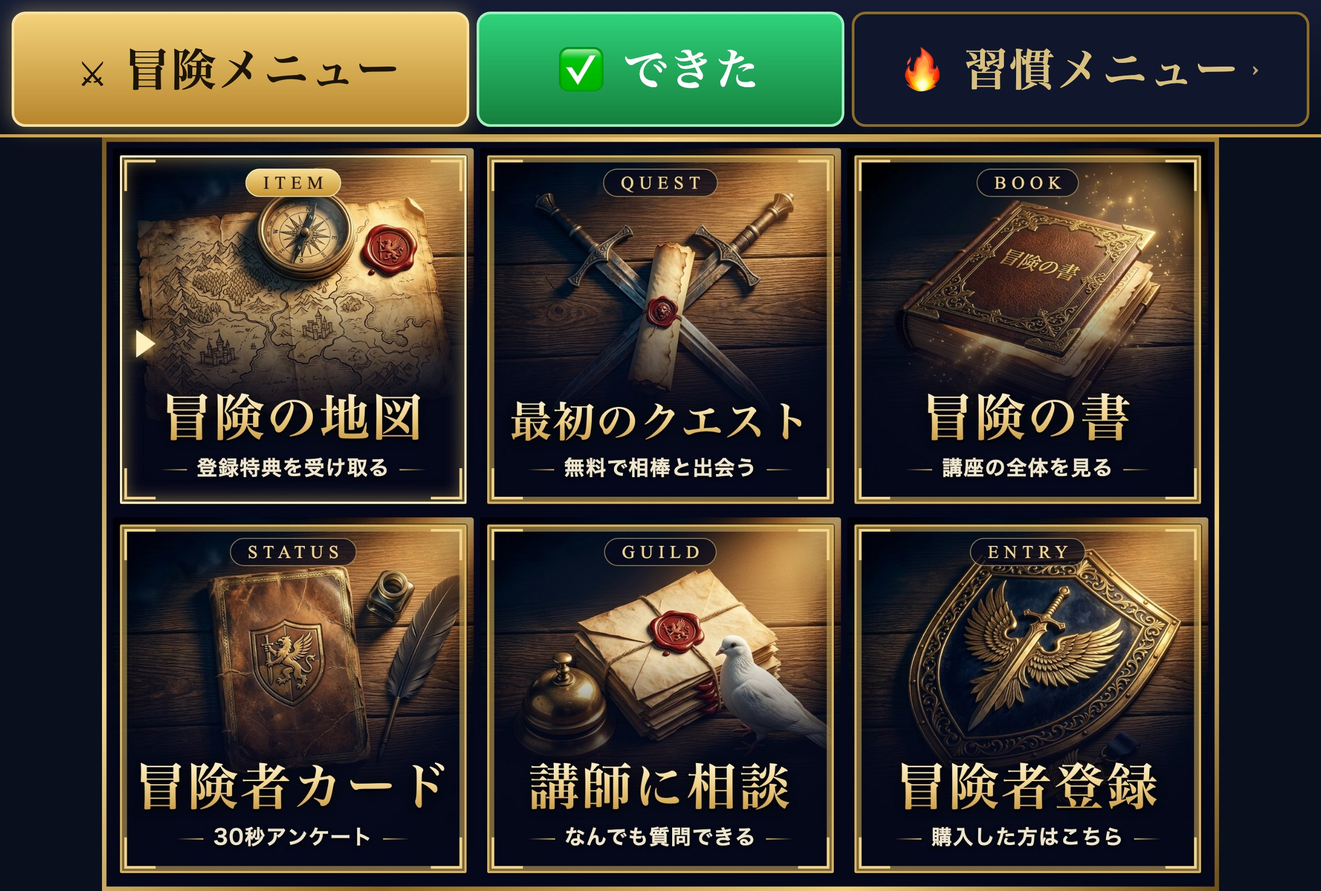
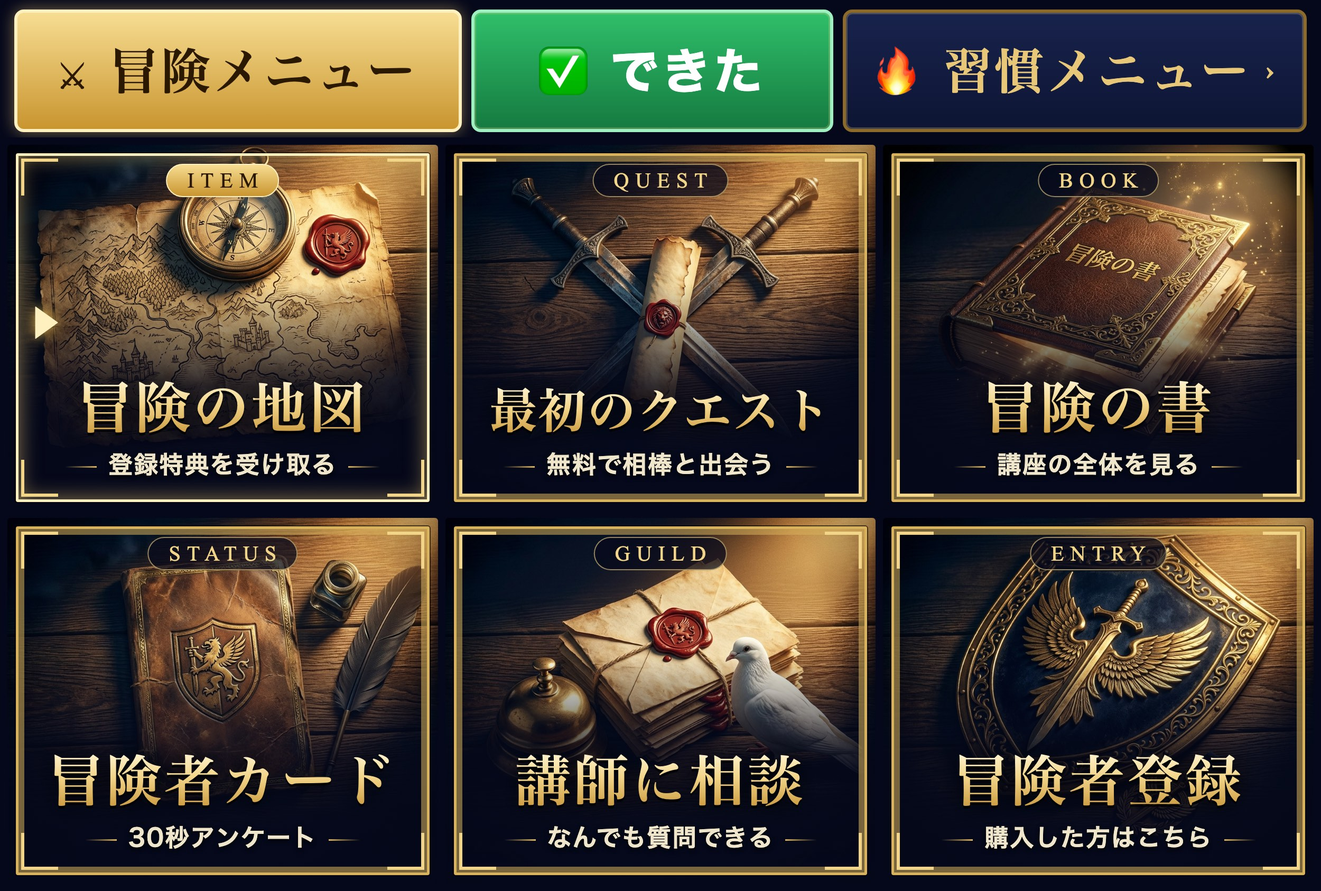
fix: タブ式の冒険メニューを画面いっぱいの6分割にし、押せる範囲も絵に合わせる
縮小して中央に置いていたため両脇に黒い余白が出ていた。
画像の元HTML（richmenu-tab-course.html）と、イラスト生成スクリプト（fal_gen.py）も追加。

diff --git a/lstep-clone/funnels/claude-code-course/assets/richmenu-tab-course.html b/lstep-clone/funnels/claude-code-course/assets/richmenu-tab-course.html
@@ -1,0 +1,36 @@
+<!doctype html><html><head><meta charset="utf-8"><link rel="stylesheet" href="rpg-menu.css">
+<style>
+/* タブ式の冒険メニュー：上260pxがタブ、下1426pxに6枚（3×2）を画面いっぱいに並べる。
+   タブの区切り（0-889 / 889-1597 / 1597-2500）は lib/actions.ts の createTabMenus の押せる範囲と同じ */
+body{height:1686px}
+.tabs{position:absolute;top:0;left:0;width:2500px;height:260px;display:flex;gap:0;padding:18px 18px 10px;background:#05081a}
+.tab{display:flex;align-items:center;justify-content:center;gap:26px;border-radius:18px;margin:0 9px;font-family:"Hiragino Mincho ProN",serif;font-weight:700;font-size:92px;letter-spacing:6px;
+  border:6px solid #8c6b2a;background:linear-gradient(180deg,#18234d,#0d1533);color:#e8c878;box-shadow:inset 0 0 0 3px rgba(243,213,138,.25)}
+.tab.on{background:linear-gradient(180deg,#f7dd92,#c9952f);color:#2a1800;border-color:#fff1bf;box-shadow:0 0 30px rgba(255,214,120,.45)}
+.tab.done{background:linear-gradient(180deg,#2fbf6a,#157a40);color:#fff;border-color:#9ff0c0;font-family:"Hiragino Sans",sans-serif;font-weight:800}
+.tab small{font-size:60px}
+.g{position:absolute;top:260px;left:0;width:2500px;height:1426px;border:none;padding:14px;gap:14px;
+   grid-template-columns:repeat(3,1fr);grid-template-rows:repeat(2,1fr)}
+.g .t{font-size:104px}.g .t.long{font-size:90px}
+.g .txt{bottom:52px}.g .tag{top:36px}
+</style></head><body>
+<div class="tabs">
+  <div class="tab on" style="width:853px">⚔ 冒険メニュー</div>
+  <div class="tab done" style="width:690px">✅ できた</div>
+  <div class="tab" style="width:885px">🔥 習慣メニュー <small>›</small></div>
+</div>
+<div class="g" style="display:grid">
+<div class="c main" style="background-image:url(richmenu-art/map.png);background-position:center 32%;background-size:cover">
+<i class="corner tl"></i><i class="corner tr"></i><i class="corner bl"></i><i class="corner br"></i>
+<div class="tag">ITEM</div><div class="txt"><div class="t">冒険の地図</div><div class="s">登録特典を受け取る</div></div></div><div class="c" style="background-image:url(richmenu-art/quest.png);background-position:center 32%;background-size:cover">
+<i class="corner tl"></i><i class="corner tr"></i><i class="corner bl"></i><i class="corner br"></i>
+<div class="tag">QUEST</div><div class="txt"><div class="t long">最初のクエスト</div><div class="s">無料で相棒と出会う</div></div></div><div class="c" style="background-image:url(richmenu-art/book.png);background-position:center 32%;background-size:cover">
+<i class="corner tl"></i><i class="corner tr"></i><i class="corner bl"></i><i class="corner br"></i>
+<div class="tag">BOOK</div><div class="txt"><div class="t">冒険の書</div><div class="s">講座の全体を見る</div></div></div><div class="c" style="background-image:url(richmenu-art/card.png);background-position:center 32%;background-size:cover">
+<i class="corner tl"></i><i class="corner tr"></i><i class="corner bl"></i><i class="corner br"></i>
+<div class="tag">STATUS</div><div class="txt"><div class="t">冒険者カード</div><div class="s">30秒アンケート</div></div></div><div class="c" style="background-image:url(richmenu-art/guild.png);background-position:center 32%;background-size:cover">
+<i class="corner tl"></i><i class="corner tr"></i><i class="corner bl"></i><i class="corner br"></i>
+<div class="tag">GUILD</div><div class="txt"><div class="t">講師に相談</div><div class="s">なんでも質問できる</div></div></div><div class="c" style="background-image:url(richmenu-art/entry.png);background-position:center 32%;background-size:cover">
+<i class="corner tl"></i><i class="corner tr"></i><i class="corner bl"></i><i class="corner br"></i>
+<div class="tag">ENTRY</div><div class="txt"><div class="t">冒険者登録</div><div class="s">購入した方はこちら</div></div></div>
+</div></body></html>

diff --git a/lstep-clone/lib/actions.ts b/lstep-clone/lib/actions.ts
@@ -643,7 +643,8 @@ export async function createTabMenus() {
   if (!base) redirect(`/rich-menus?error=${enc("元になる通常メニュー（大・6分割）が見つかりません")}`);
   const baseAreas = JSON.parse(base.areas) as RichMenuArea[];
 
-  // 冒険メニュー：上のタブ（冒険／できた／習慣へ）＋ 元の6分割を縮小して中央に配置した画像
+  // 冒険メニュー：上のタブ（冒険／できた／習慣へ）＋ 元の6分割を画面いっぱいに並べた画像
+  //（画像は funnels/claude-code-course/assets/richmenu-tab-course.html から書き出す）
   const unit = (2500 - 44 - 28) / 2.8;
   const tabsA: [Box, object][] = [
     // 表示中のタブは押しても何も送らない（会話の邪魔をしない）
@@ -651,9 +652,7 @@ export async function createTabMenus() {
     [{ x: Math.round(22 + unit), y: 0, width: Math.round(14 + unit * 0.8), height: TAB_H }, { type: "message", text: "できた" }],
     [{ x: Math.round(36 + unit * 1.8), y: 0, width: 2500 - Math.round(36 + unit * 1.8), height: TAB_H }, switchTo("habit")],
   ];
-  const bodyW = Math.round((2500 * (1686 - TAB_H)) / 1686);
-  const offX = Math.round((2500 - bodyW) / 2);
-  const cellW = bodyW / 3;
+  const cellW = 2500 / 3;
   const cellH = (1686 - TAB_H) / 2;
   const bodyA: [Box, object][] = [];
   baseAreas.forEach((a, i) => {
@@ -661,8 +660,8 @@ export async function createTabMenus() {
     if (!act) return;
     const c = i % 3;
     const r = Math.floor(i / 3);
-    const x0 = c === 0 ? 0 : Math.round(offX + c * cellW);
-    const x1 = c === 2 ? 2500 : Math.round(offX + (c + 1) * cellW);
+    const x0 = Math.round(c * cellW);
+    const x1 = c === 2 ? 2500 : Math.round((c + 1) * cellW);
     bodyA.push([{ x: x0, y: Math.round(TAB_H + r * cellH), width: x1 - x0, height: Math.round(cellH) }, act]);
   });
 

diff --git a/lstep-clone/funnels/claude-code-course/assets/fal_gen.py b/lstep-clone/funnels/claude-code-course/assets/fal_gen.py
@@ -1,0 +1,37 @@
+# falで画像を1枚生成して保存する（リッチメニューのイラスト用）。鍵は ~/.fal_key から読み、表示しない。
+#   python3 fal_gen.py <model> <出力パス> <プロンプトファイル> [参照画像...]
+#   例: python3 fal_gen.py fal-ai/nano-banana-2/edit richmenu-art/x.png p.txt richmenu-art/map.png
+import base64, json, mimetypes, os, ssl, sys, time, urllib.request
+import certifi
+
+CTX = ssl.create_default_context(cafile=certifi.where())
+KEY = open(os.path.expanduser("~/.fal_key")).read().strip()
+
+model, out, prompt_file, *refs = sys.argv[1:]
+prompt = open(prompt_file, encoding="utf-8").read()
+body = {"prompt": prompt, "num_images": 1, "aspect_ratio": "1:1", "output_format": "png"}
+if refs:
+    body["image_urls"] = [
+        f"data:{mimetypes.guess_type(r)[0] or 'image/png'};base64,{base64.b64encode(open(r, 'rb').read()).decode()}"
+        for r in refs
+    ]
+
+req = urllib.request.Request(
+    f"https://fal.run/{model}",
+    data=json.dumps(body).encode(),
+    headers={"Authorization": f"Key {KEY}", "Content-Type": "application/json"},
+)
+t = time.time()
+try:
+    res = json.load(urllib.request.urlopen(req, timeout=300, context=CTX))
+except urllib.error.HTTPError as e:
+    print("HTTP", e.code, e.read().decode()[:500])
+    sys.exit(1)
+url = res["images"][0]["url"]
+data = (
+    urllib.request.urlopen(url, timeout=120, context=CTX).read()
+    if url.startswith("http")
+    else base64.b64decode(url.split(",", 1)[1])
+)
+open(out, "wb").write(data)
+print(f"ok {out} {len(data)//1024}KB {time.time()-t:.1f}s")
